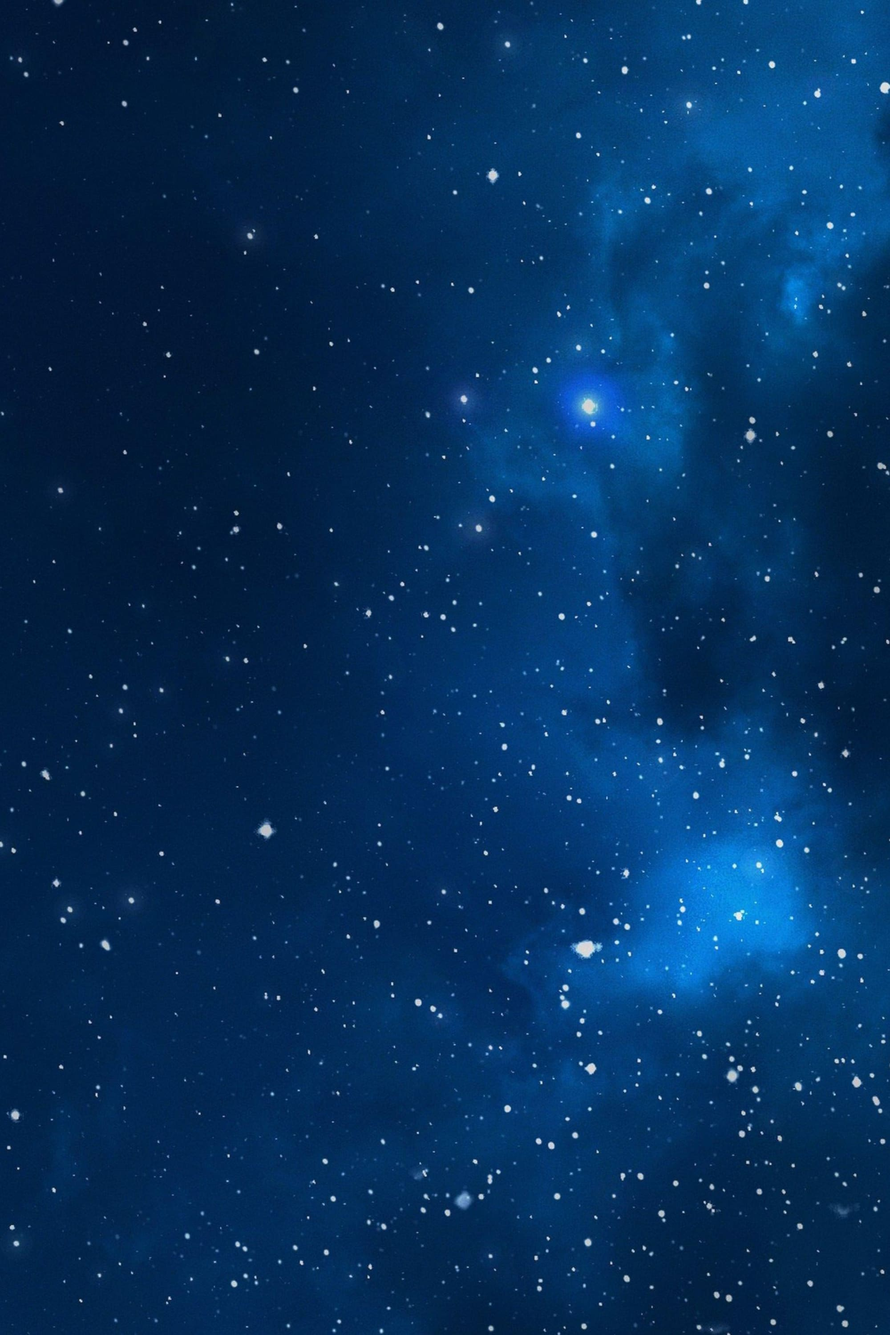
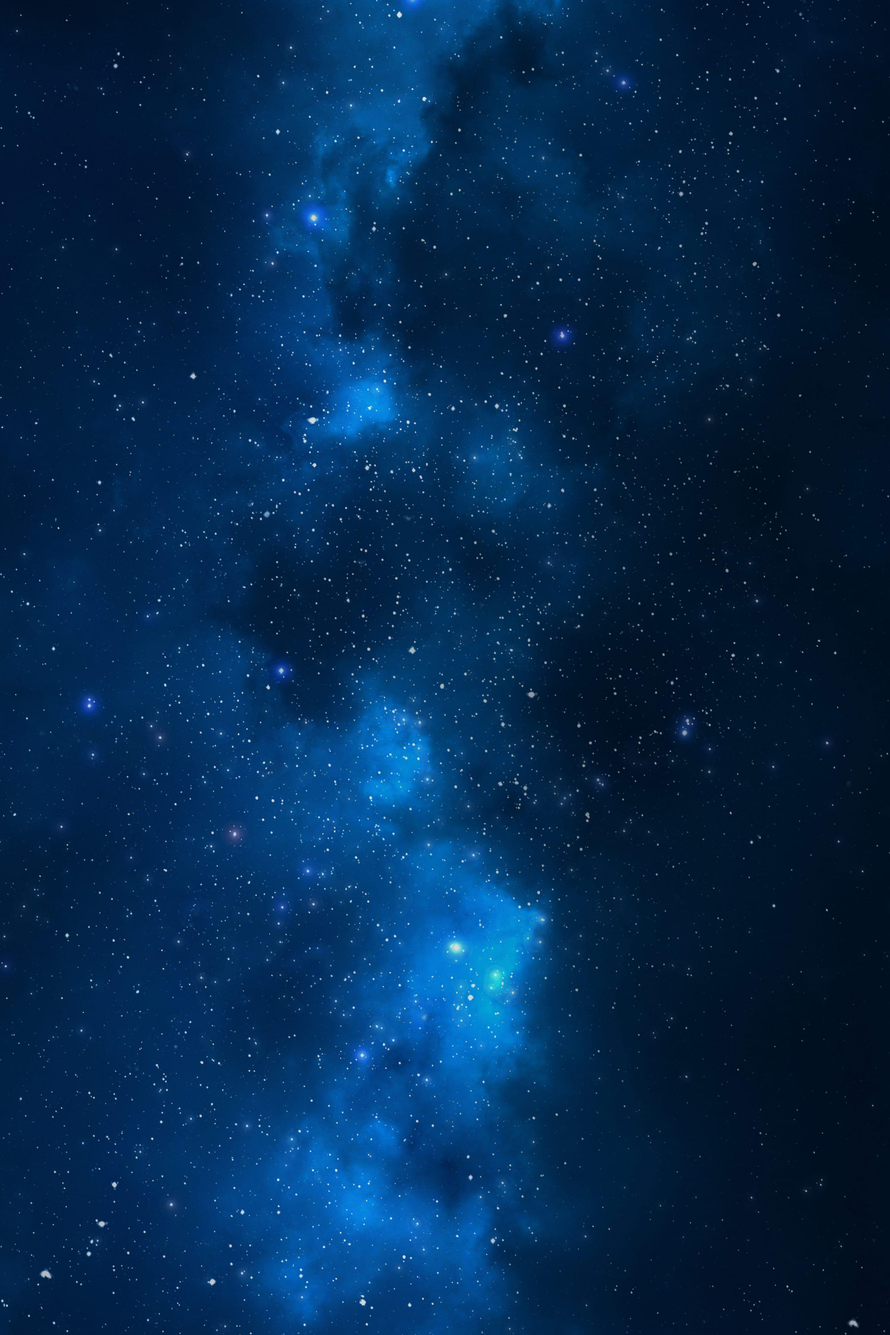
Main CSS WIP
Decoracion final en proceso

diff --git a/css/demo.css b/css/demo.css
@@ -41,8 +41,8 @@ src: url(../media/fuentes/Roboto-VariableFont_wdth\,wght.ttf);
 
 /* ESTO ES PARTE DEL MAIN */
 
-main{
-    background-image: url("../media/imagenes/stars_bg2");
+body{
+    background-image: url("../media/imagenes/stars_bg2.jpg");
 }
 
 .arrow, .arrow-footer{
@@ -61,6 +61,18 @@ main{
     width: 10%;
 }
 
+.white-line{
+    width: 100%;
+    margin-bottom: 10px;
+    margin-top: 10px;
+}
+
+#bar{
+   
+    border: 4px solid var(--color9);
+    border-radius: 20px;
+}
+
 #formulario h1 {
     font-size: 35px;
     margin-bottom: 20px;
@@ -69,10 +81,6 @@ main{
     text-align: center;
 }
 
-.about-container .about-video{
-    display: none;
-    visibility: hidden;
-}
 
 /* ----------------------- */
 .demo_main{

diff --git a/css/SelectorDePersonajes.css b/css/SelectorDePersonajes.css
@@ -353,19 +353,15 @@ h1{
 }
 
 footer {
-    background-color: #2c023b; /* Igual que el fondo de la sección "About the Game" */
     color: var(--color1); /* Asegura que el texto sea legible */
     padding: 2rem;
-    text-align: center; /* Opcional: centra el contenido */
-}
-
-#footer {
-    background-color: #9c6ab5; /* Morado claro */
+    text-align: center; /* Opcional: centra el contenido */;
     color: white;
     padding: 2rem;
     text-align: center;
     font-family: Orbitron, sans-serif;
 }
+
 
 #footer h2 {
     font-size: 24px;
@@ -402,7 +398,7 @@ footer {
 }
 
 #about-the-game {
-    background-color: #2c023b; /* Morado oscuro */
+    
     padding: 3rem 2rem;
     color: var(--color1);
 }

diff --git a/index.html b/index.html
@@ -127,7 +127,8 @@
             </div>
         </section>
     </main>
-    <footer id="footer">
+    <footer>
+        
         <!-- ¿SCRIPT FORMULARIO? -->
         <script>
             // Obtenemos los elementos del formulario y el mensaje
@@ -166,6 +167,10 @@
                 correo.value = "";
             });
         </script>
+
+        <div class="white-line">
+            <div id="bar"></div>
+        </div>
 
         <section id="formulario">
             <h1>Formulario</h1>

diff --git a/JS/script.js b/JS/script.js
@@ -178,7 +178,7 @@ SundayImg.onclick = function(){
 
 MydeiImg.onclick = function(){
   $(main_img).fadeOut(333, function(){
-    main_img.src = "./media/imagenes/personajes splash art/Character_Mydei_Splash_Art.webp";
+    main_img.src = "./media/imagenes/personajes splash art/Character_Mydei_Splash_Art.png";
   });
   $(main_img).fadeIn(333);
 
